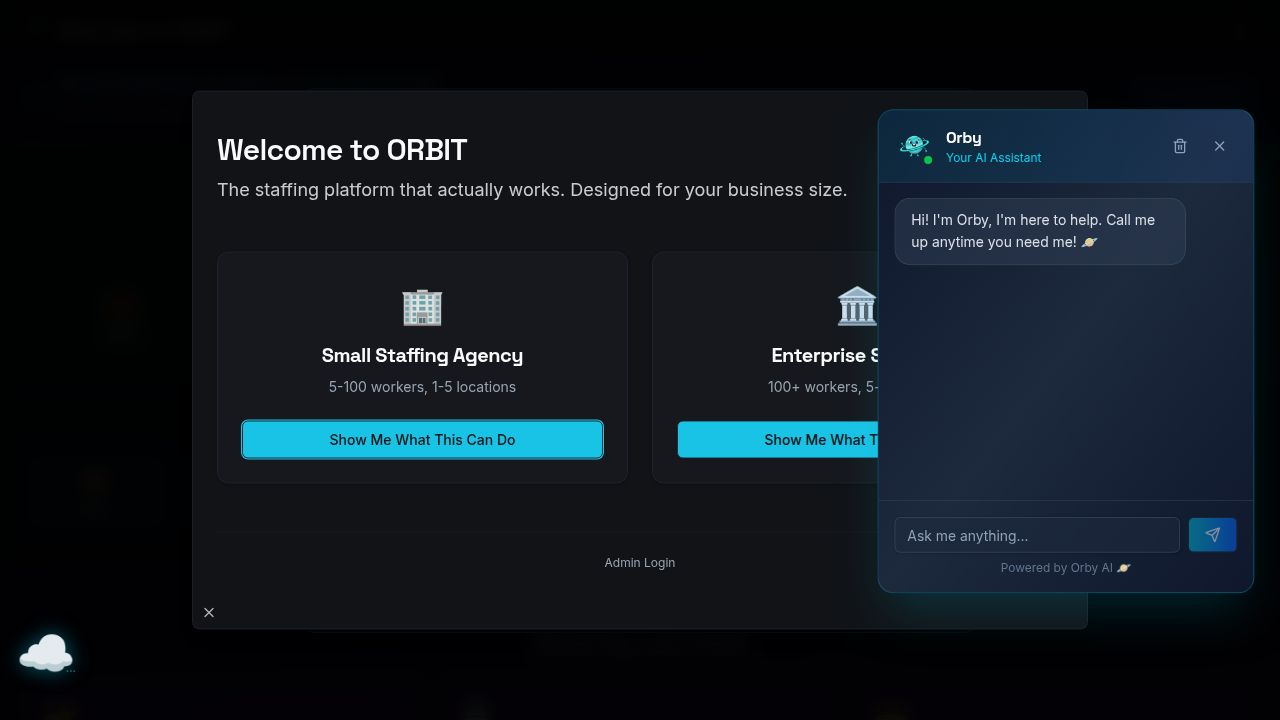
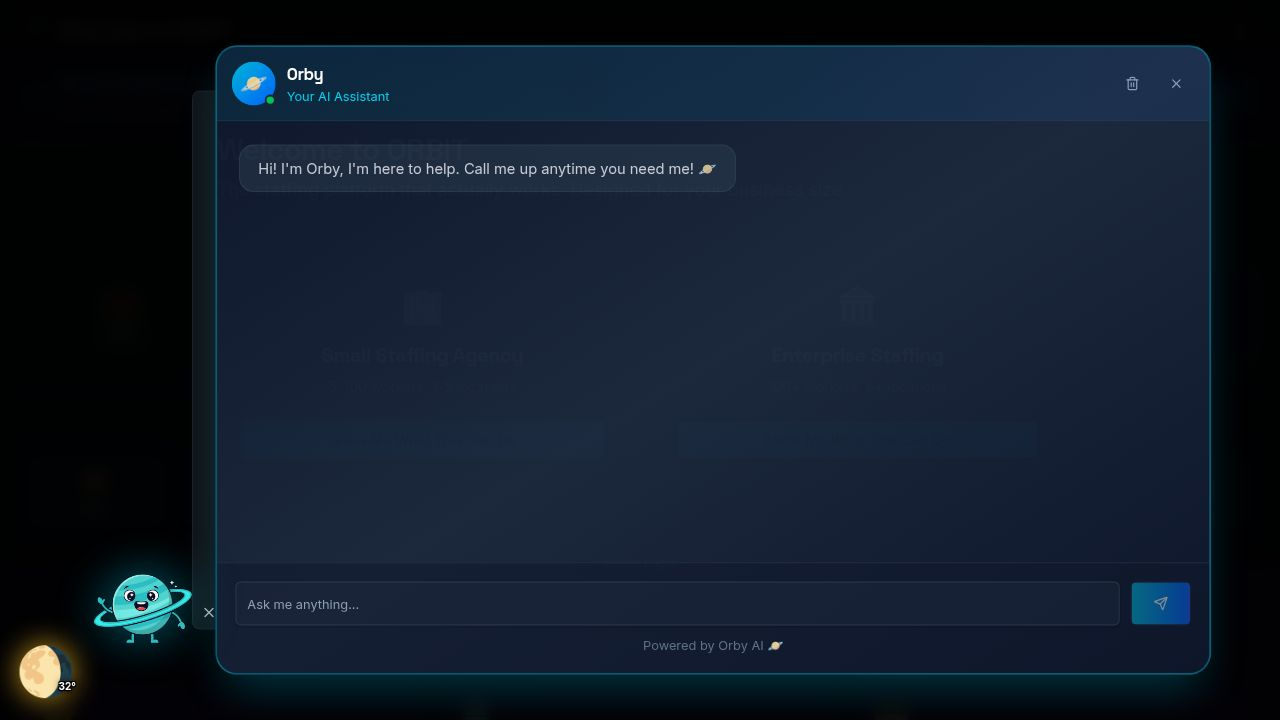
Adjust the AI assistant button's position and appearance
Modify the OrbitChatAssistant component to reposition the floating action button to `bottom-20` and update its styling, including size, gradient, border, shadow, and emoji, for better visibility and aesthetic appeal.

Replit-Commit-Author: Agent
Replit-Commit-Session-Id: df6a5f3a-5cc7-457d-a71c-08b3217d563c
Replit-Commit-Checkpoint-Type: full_checkpoint
Replit-Commit-Event-Id: 5573effd-4ac9-4888-9014-a3c757d63a60
Replit-Commit-Screenshot-Url: https://storage.googleapis.com/screenshot-production-us-central1/606bb700-1745-49b9-8ff5-b83937d394a3/df6a5f3a-5cc7-457d-a71c-08b3217d563c/u71oFlZ

diff --git a/client/src/components/OrbitChatAssistant.tsx b/client/src/components/OrbitChatAssistant.tsx
@@ -334,14 +334,17 @@ export function OrbitChatAssistant() {
 
       <button
         onClick={() => setIsOpen(true)}
-        className={`fixed bottom-6 right-4 z-[99999] w-14 h-14 rounded-full bg-gradient-to-br from-cyan-600 to-blue-700 border-2 border-cyan-400/60 shadow-lg shadow-cyan-500/40 flex items-center justify-center hover:scale-110 transition-transform ${isOpen ? 'hidden' : ''}`}
-        style={{ filter: 'drop-shadow(0 0 15px rgba(6,182,212,0.6))' }}
+        className={`fixed bottom-20 right-4 z-[99999] w-16 h-16 rounded-full bg-gradient-to-br from-cyan-500 to-blue-600 border-3 border-cyan-300 shadow-xl shadow-cyan-500/50 flex items-center justify-center hover:scale-110 transition-transform ${isOpen ? 'hidden' : ''}`}
+        style={{ 
+          filter: 'drop-shadow(0 0 20px rgba(6,182,212,0.8))',
+          boxShadow: '0 0 30px rgba(6, 182, 212, 0.6), 0 4px 15px rgba(0,0,0,0.4)'
+        }}
         data-testid="button-orbit-chat"
         aria-label="Open Orby chat"
       >
-        <span className="text-3xl">🪐</span>
+        <span className="text-4xl">🪐</span>
         <span 
-          className="absolute -top-1 -right-1 w-4 h-4 bg-green-500 rounded-full border-2 border-slate-900 animate-pulse"
+          className="absolute -top-1 -right-1 w-5 h-5 bg-green-400 rounded-full border-2 border-white animate-pulse"
         />
       </button>
     </>,
